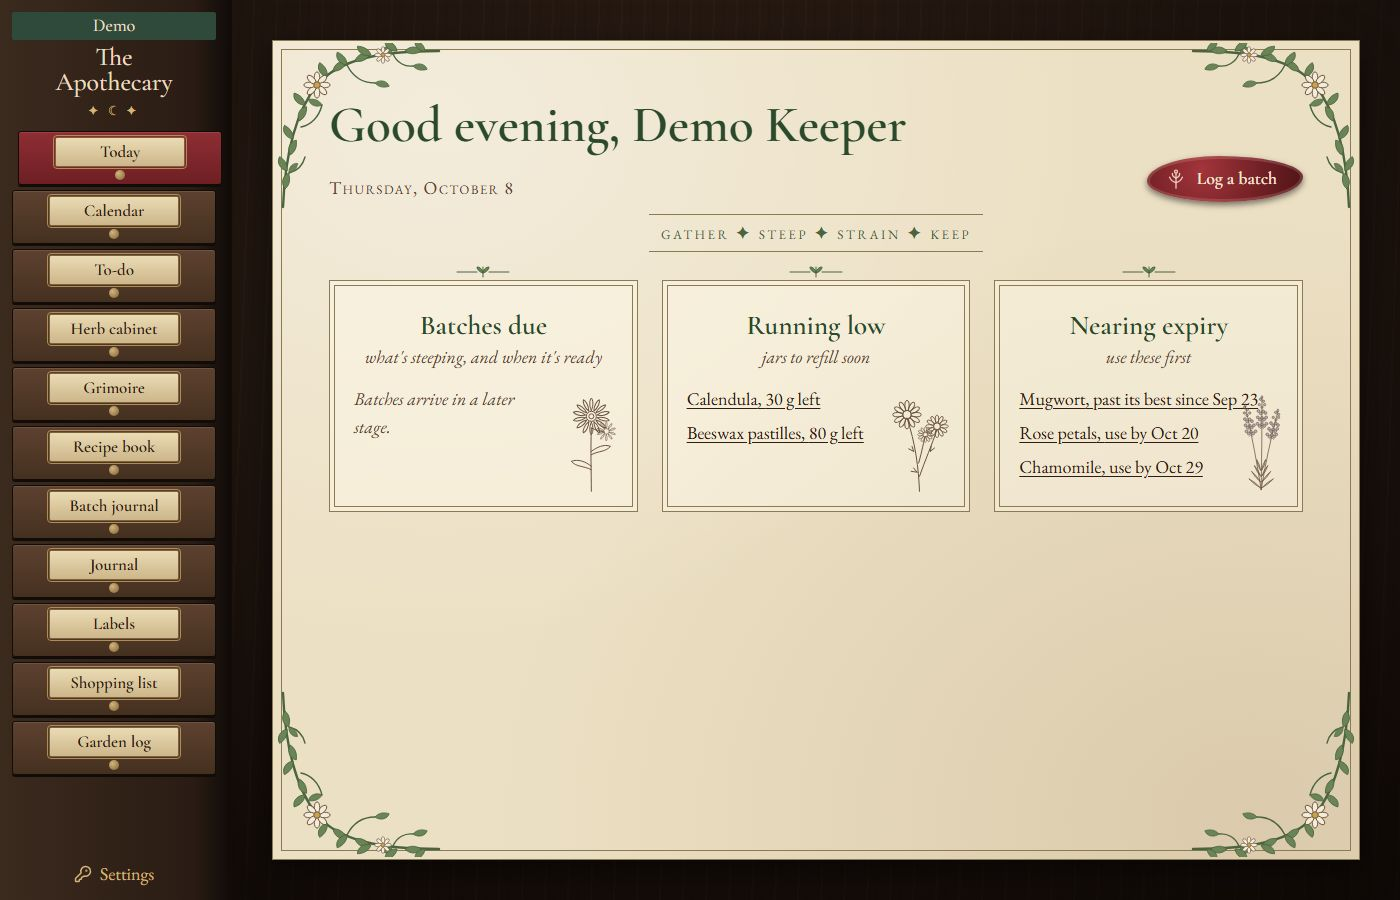
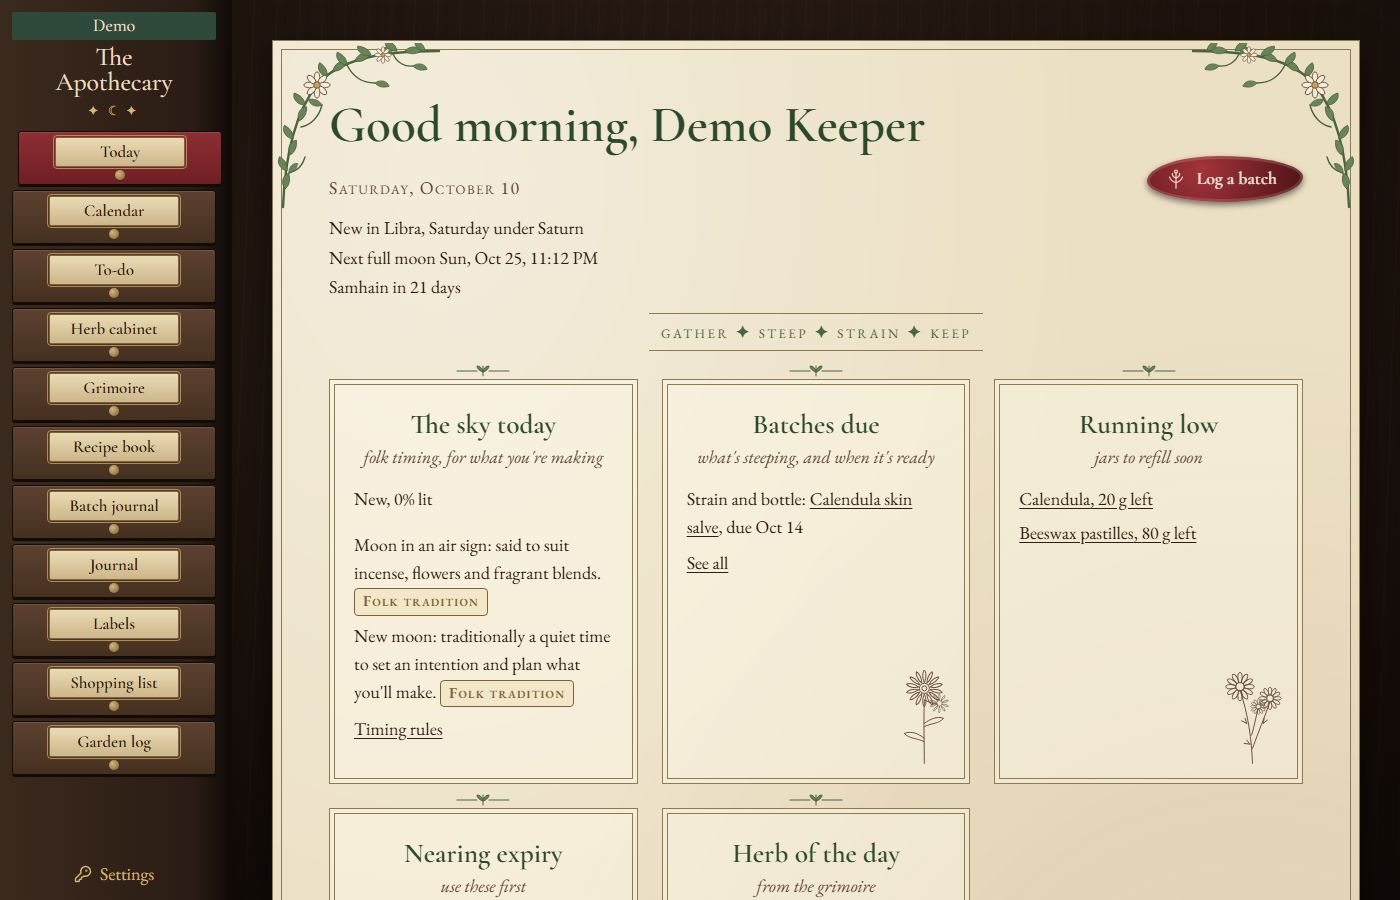
Describe the sky and tradition stage and refresh the Today screenshot

diff --git a/README.md b/README.md
@@ -6,16 +6,17 @@ A home apothecary keeper for your herbs, remedies and notes. It runs on your own
 
 ## What works so far
 
-This is Stage 3B of 8. It adds the batch journal to the herb cabinet, the grimoire and the recipe book.
+This is Stage 4 of 8. It adds the sky and folk tradition to the herb cabinet, the grimoire, the recipe book and the batch journal.
 
-- Today shows a greeting and the date; moon and sky timing arrive in a later stage.
+- Today shows a greeting and the date, plus the sky: the moon's phase and sign, the day's ruling planet, the next new or full moon and the next festival.
 - Settings holds your name, location, hemisphere and units, plus backups and restore.
 - Backups run every night, and Settings has Back up now and Restore.
 - The herb cabinet holds your herbs and supplies, jar by jar. Each item records whether you bought, grew, foraged, made or were given it, keeps a purchase history, and takes photos. Suppliers get their own pages and ratings.
 - Today lists jars that are running low, close to their use-by date, or past it.
 - The grimoire holds 30 starter herbs: traditional uses, parts used, garden notes, and the planet and element where an old herbal gives one. Cautions come first on every herb page. You can add, edit and delete your own herbs and their sources. Herb jars in the cabinet link to their grimoire page, and Today shows an herb of the day.
 - The recipe book keeps what you make. Recipe types are yours to manage: 22 starters you can edit, reorder or delete. A recipe takes ingredients from the grimoire or typed in, steps, wait time, shelf life, intention, timing notes and photos. Scale it by a factor or to the amount you want to end up with. Each recipe opens with its herbs' cautions, and skin recipes add a patch-test reminder. Herb pages list the recipes that use them.
-- The batch journal records what you actually make. Start a batch from a recipe, or free-form. The app matches your jars to the ingredients and converts units where it safely can, and it asks before drawing more than a jar holds. It sets steps for later from the recipe's wait time, and Today shows steps that are due. Finishing a batch can add the result to the cabinet as a new jar. Each batch prints as a one-page record sheet. Moon timing for batches arrives in Stage 4.
+- The batch journal records what you actually make. Start a batch from a recipe, or free-form. The app matches your jars to the ingredients and converts units where it safely can, and it asks before drawing more than a jar holds. It sets steps for later from the recipe's wait time, and Today shows steps that are due. Finishing a batch can add the result to the cabinet as a new jar. Each batch prints as a one-page record sheet.
+- Sky and tradition. Today shows up to two folk timing suggestions, taken from rules you can edit or turn off in Settings. Batches show the sky on their start date, and starting one suggests good days in the next four weeks. Every suggestion is labelled folk tradition, and none of them ever changes a caution.
 - The other drawers say so when they are not built yet.
 
 ![The herb cabinet](docs/screenshots/shelves.jpg)
